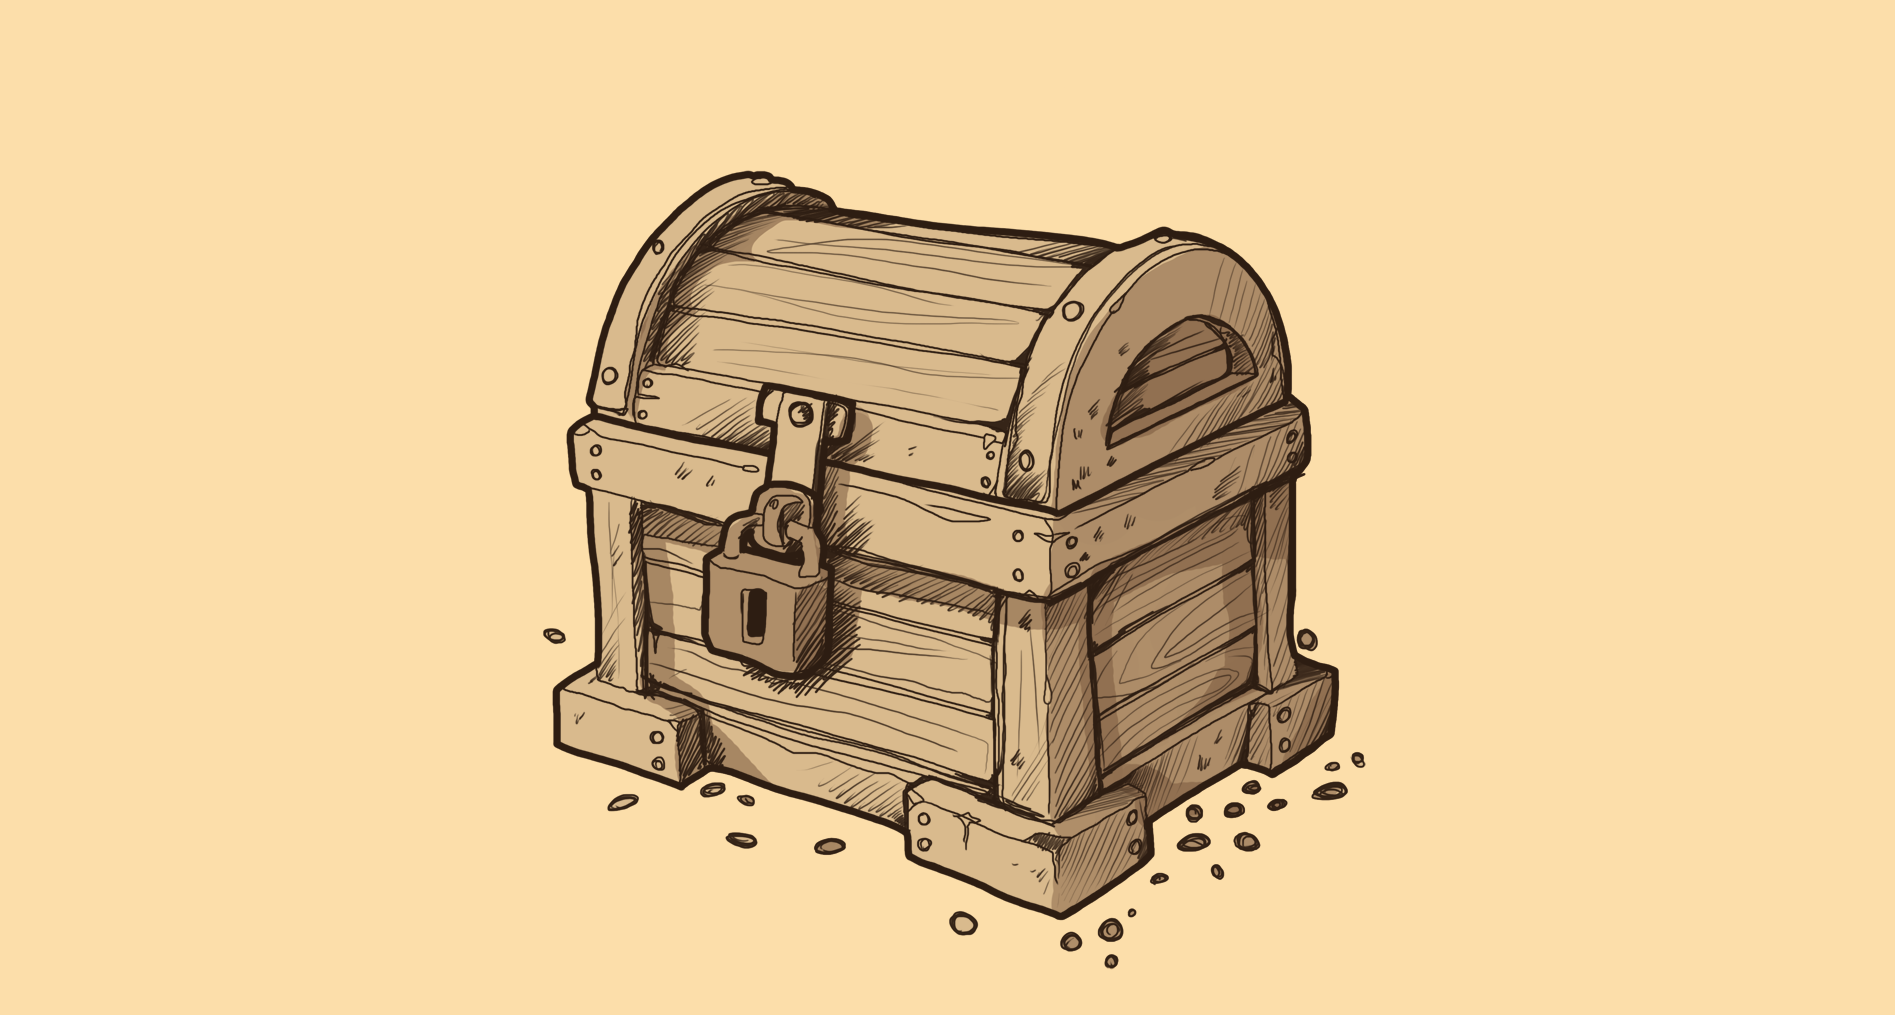
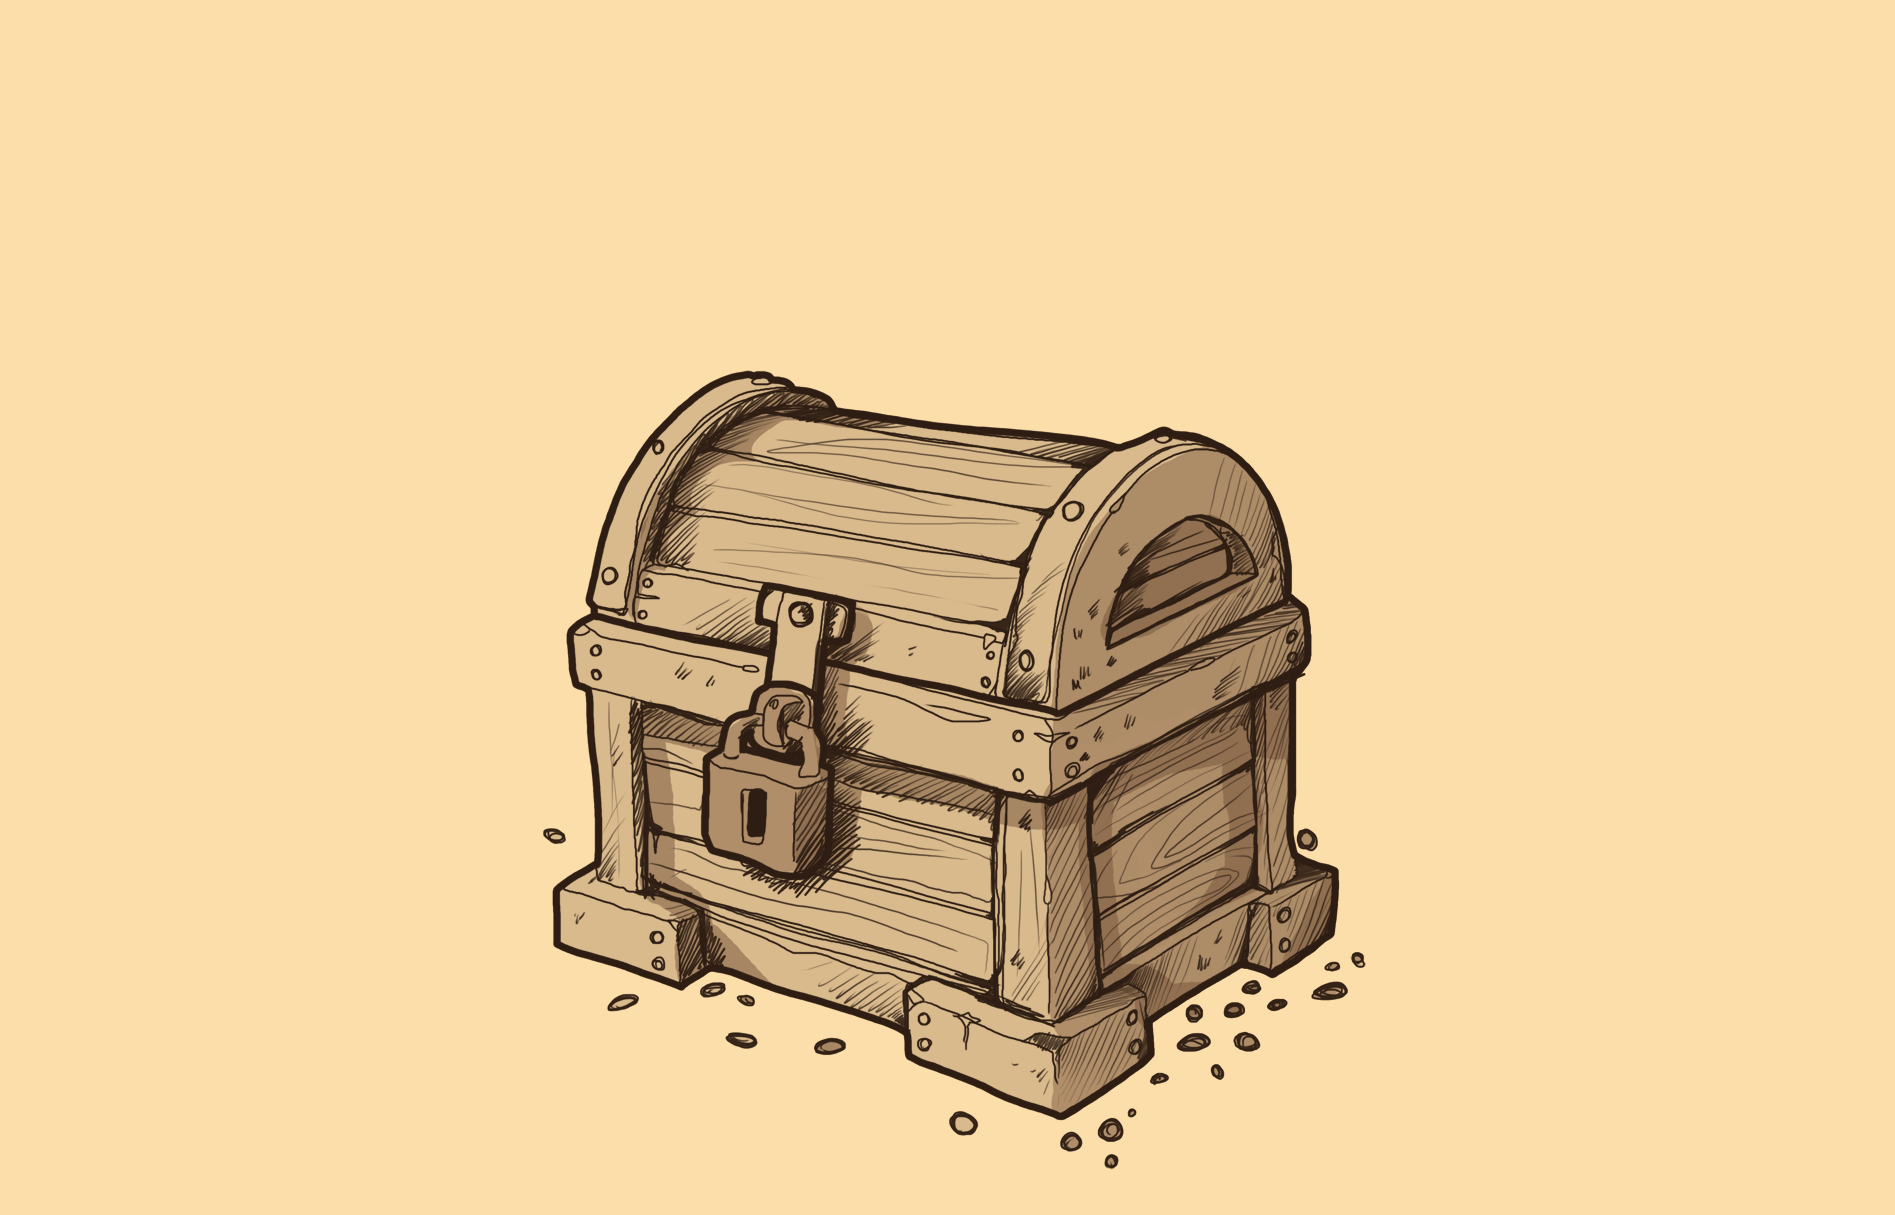
Added rpg background

Changed region(s): [[0.2802, 0.1527, 0.7161, 0.9773]]

diff --git a/ionic-app/src/lib/particleRPGImagesConfig.tsx b/ionic-app/src/lib/particleRPGImagesConfig.tsx
@@ -1,0 +1,63 @@
+/* ---- particles.js config ---- */
+
+const options: any = {
+  particles: {
+    number: {
+      value: 80,
+      density: {
+        enable: true,
+        value_area: 2300,
+      },
+    },
+    line_linked: {
+      enable: false,
+    },
+    move: {
+      speed: 1,
+      out_mode: 'out',
+    },
+    shape: {
+      type: ['image'],
+      image: [
+        { src: '/assets/adventureIcons/ForestIcons_16_t.PNG', height: 30, width: 30 },
+        { src: '/assets/adventureIcons/ForestIcons_19_t.PNG', height: 20, width: 20 },
+        { src: '/assets/adventureIcons/ForestIcons_22_t.PNG', height: 20, width: 20 },
+        { src: '/assets/adventureIcons/ForestIcons_26_t.PNG', height: 20, width: 20 },
+        { src: '/assets/adventureIcons/ForestIcons_27_t.PNG', height: 20, width: 20 },
+        { src: '/assets/adventureIcons/ForestIcons_29_t.PNG', height: 15, width: 15 },
+        { src: '/assets/adventureIcons/ForestIcons_30_t.PNG', height: 20, width: 20 },
+        { src: '/assets/adventureIcons/ForestIcons_38_t.PNG', height: 20, width: 20 },
+        { src: '/assets/adventureIcons/ForestIcons_49_t.PNG', height: 15, width: 15 },
+        { src: '/assets/adventureIcons/ForestIcons_50_t.PNG', height: 20, width: 20 },
+        { src: '/assets/adventureIcons/ForestIcons_56_t.png', height: 20, width: 20 },
+        { src: '/assets/adventureIcons/ForestIcons_64_t.png', height: 20, width: 20 },
+        { src: '/assets/adventureIcons/ForestIcons_78_t.png', height: 20, width: 20 },
+        { src: '/assets/adventureIcons/ForestIcons_79_t.png', height: 15, width: 15 },
+        { src: '/assets/adventureIcons/ForestIcons_94_t.png', height: 20, width: 20 },
+        { src: '/assets/adventureIcons/pirates_22_t.png', height: 20, width: 20 },
+        { src: '/assets/adventureIcons/pirates_27_t.png', height: 20, width: 20 },
+        { src: '/assets/adventureIcons/pirates_28_t.png', height: 20, width: 20 },
+        { src: '/assets/adventureIcons/pirates_63_t.png', height: 20, width: 20 },
+        { src: '/assets/adventureIcons/pirates_118_t.png', height: 20, width: 20 },
+        { src: '/assets/adventureIcons/pirates_131_t.png', height: 20, width: 20 },
+        { src: '/assets/adventureIcons/Trophy_01_02.png', height: 20, width: 20 },
+        { src: '/assets/adventureIcons/Trophy_01_03.png', height: 20, width: 20 },
+      ],
+    },
+    color: {
+      value: '#fb8500',
+    },
+    size: {
+      value: 40,
+      random: false,
+      anim: {
+        enable: true,
+        speed: 4,
+        size_min: 10,
+        sync: false,
+      },
+    },
+  },
+  retina_detect: false,
+};
+export default options;

diff --git a/ionic-app/src/components/slides/class-ranking/ClassRanking.tsx b/ionic-app/src/components/slides/class-ranking/ClassRanking.tsx
@@ -2,11 +2,8 @@ import AutocenteredBullets from '../../autocentered-bullets/AutocenteredBullets'
 import { IonImg } from '@ionic/react';
 import rankingImg from '../../../assets/leader-board.jpg';
 import styles from './class-ranking.module.css';
-type IProps = {
-  className?: string;
-};
 
-const ClassRanking: React.FC<IProps> = ({ className }) => {
+const ClassRanking: React.FC = () => {
   return (
     <div className="h-full flex">
       <AutocenteredBullets>

diff --git a/ionic-app/src/screens/presentation/Presentation.tsx b/ionic-app/src/screens/presentation/Presentation.tsx
@@ -4,7 +4,7 @@ import styles from './presentation.module.css';
 import FullscreenSlide from '../../components/fullscreen-slide/FullscreenSlide';
 import Particles from 'react-particles-js';
 import schoolOptions from '../../lib/particleImagesConfig';
-import adventureOptions from '../../lib/particlesConfig';
+import adventureOptions from '../../lib/particleRPGImagesConfig';
 import slides from './slides';
 
 const slideOpts = {

diff --git a/ionic-app/src/screens/presentation/slides.tsx b/ionic-app/src/screens/presentation/slides.tsx
@@ -108,7 +108,7 @@ const slides: ISlide[] = [
     subtitle: 'Klassen har et hold, men eleverne spiller deres egen karakter',
     backgroundImage: {
       src: treasureChest,
-      opacity: 0.8,
+      opacity: 0.5,
     },
     content: <ThemeAndStructure />,
   },

diff --git a/ionic-app/src/components/slides/class-ranking/class-ranking.module.css b/ionic-app/src/components/slides/class-ranking/class-ranking.module.css
@@ -1,3 +1,4 @@
 .img {
   width: 65%;
+  filter: grayscale(80%);
 }
